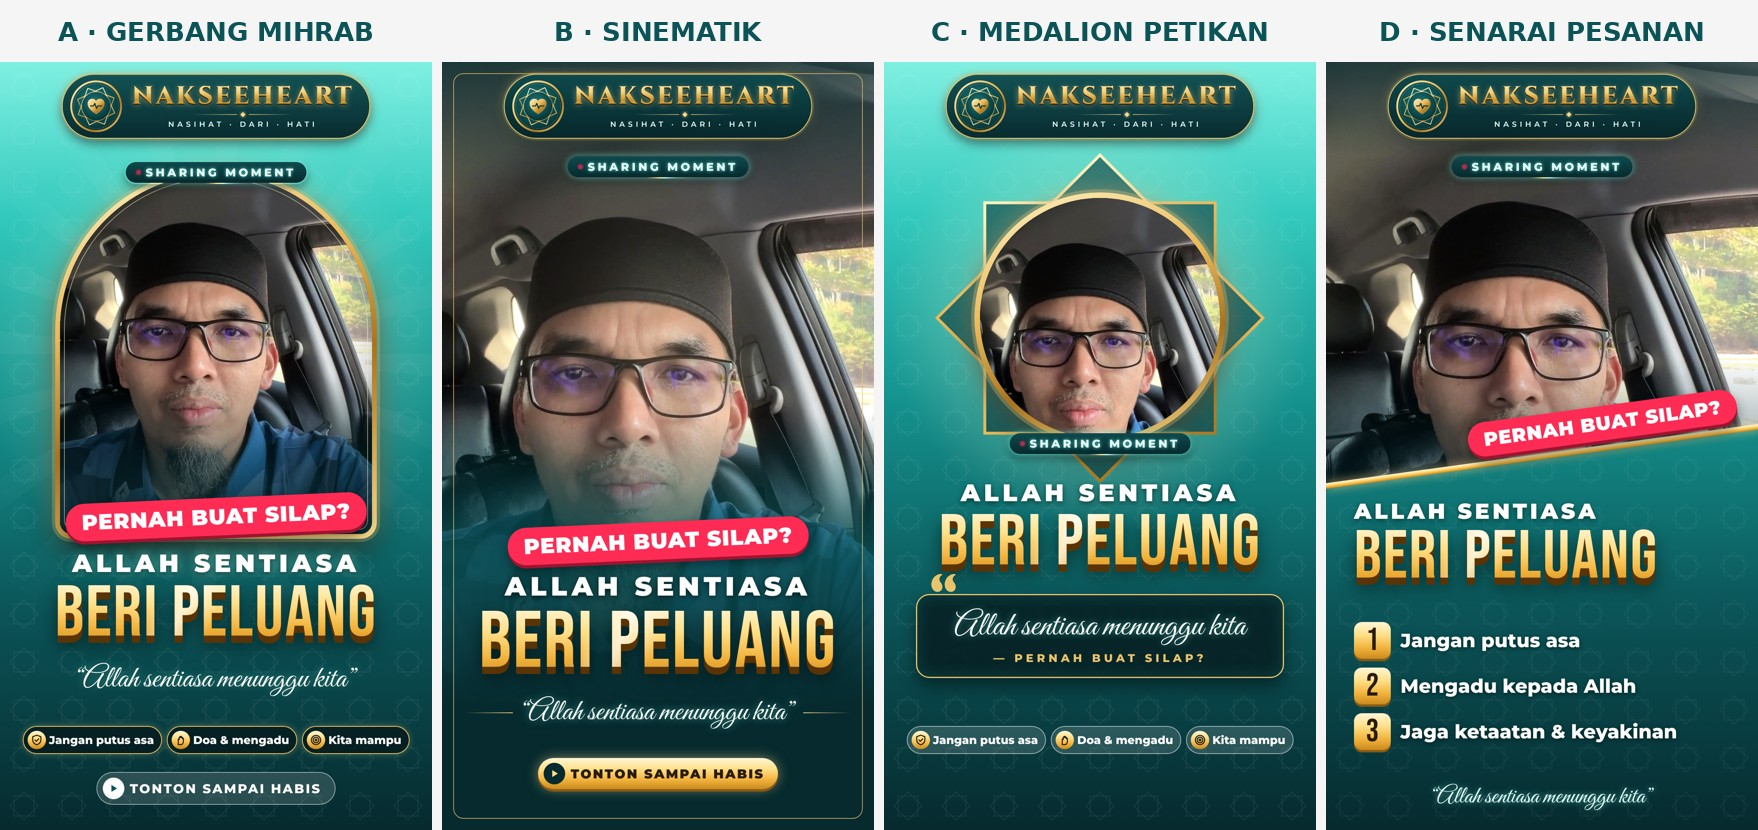
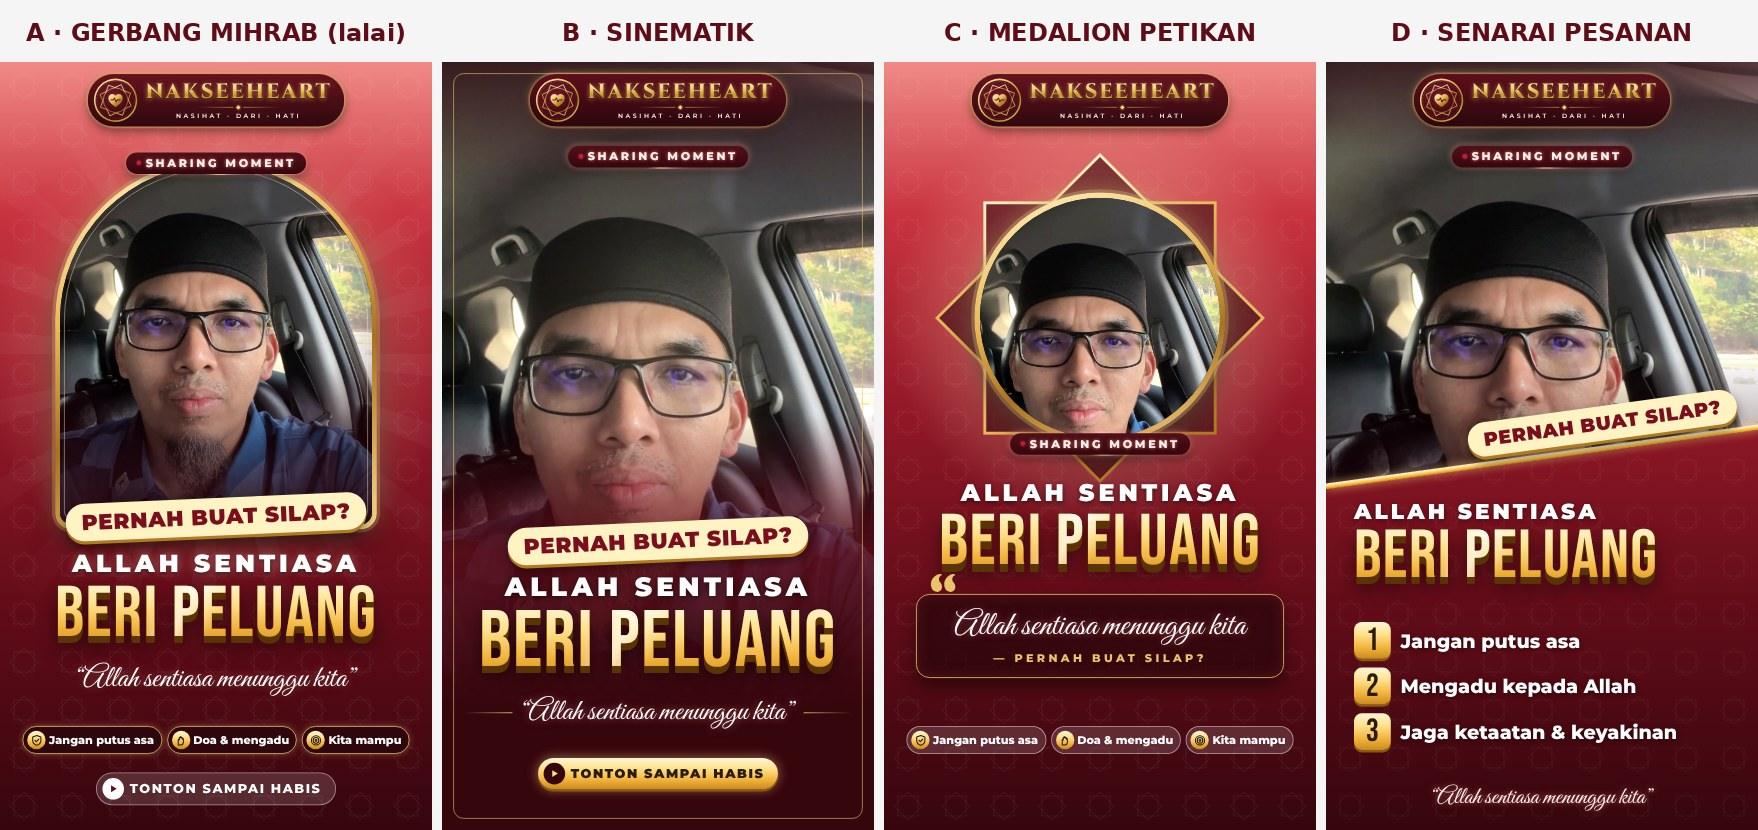
Nasihat V4: contoh dikemas kini ke maroon, pembetulan jenis cover.list untuk projek baharu, README
Claude-Session: https://claude.ai/code/session_012bACtUvdqMXn5RVzcwWnfk

diff --git a/styles/nasihat-v4/overlay/src/Showcase.tsx b/styles/nasihat-v4/overlay/src/Showcase.tsx
@@ -661,7 +661,7 @@ export const CoverV4C: React.FC = () => {
 /** D — SENARAI PESANAN: foto atas bersudut condong + 3 pesanan bernombor */
 export const CoverV4D: React.FC = () => {
   const cv = SC.cover;
-  const list: string[] = cv.list ?? cv.chips.map((c: { t: string }) => c.t);
+  const list: string[] = (cv as { list?: string[] }).list ?? cv.chips.map((c: { t: string }) => c.t);
   return (
     <AbsoluteFill style={{ overflow: 'hidden', background: TURQ }}>
       <Star8BG o={0.08} />

diff --git a/video-nakseeheart-allah-beri-peluang/src/Showcase.tsx b/video-nakseeheart-allah-beri-peluang/src/Showcase.tsx
@@ -661,7 +661,7 @@ export const CoverV4C: React.FC = () => {
 /** D — SENARAI PESANAN: foto atas bersudut condong + 3 pesanan bernombor */
 export const CoverV4D: React.FC = () => {
   const cv = SC.cover;
-  const list: string[] = cv.list ?? cv.chips.map((c: { t: string }) => c.t);
+  const list: string[] = (cv as { list?: string[] }).list ?? cv.chips.map((c: { t: string }) => c.t);
   return (
     <AbsoluteFill style={{ overflow: 'hidden', background: TURQ }}>
       <Star8BG o={0.08} />

diff --git a/video-nakseeheart-allah-beri-peluang/README.md b/video-nakseeheart-allah-beri-peluang/README.md
@@ -33,3 +33,9 @@ Warna dinormalkan (kulit wajah). Suara dibersihkan, muzik disintesis (ducking -1
 
 ## Versi Showcase FINAL/RAW (kinetic typography)
 [`out/nakseeheart-allah-beri-peluang-showcase.mp4`](out/nakseeheart-allah-beri-peluang-showcase.mp4) (106.3 s, 9:16): format showcase mengikut video rujukan pengguna — logo & nama di atas, panel **FINAL** (suntingan semula segi empat: wajah penceramah diselang-seli 18 kad *kinetic typography* — perkataan besar, kad pilihan, cincin, siluet, jubin 1-2-3, sorotan) dan panel **RAW** (rakaman asal, serentak mengikut EDL yang sama), label neon *SHARING MOMENT*, tona turquoise + emas. Kod: `src/Showcase.tsx` (komposisi `Showcase`, `KineticFinal`). Ucapan & audio sama seperti versi asal.
+
+## Versi Nasihat V4 (showcase)
+Video contoh rasmi style **Nasihat V4** (`styles/nasihat-v4/`): tema merah maroon, logo premium, satu panel
+kinetic, point 3D, CTA Follow TikTok dengan klik, cover Konsep A (gerbang mihrab) dibenam.
+- Output: `out/nakseeheart-allah-beri-peluang-showcase.mp4` (107 s, cover di dalam), cover `out/nakseeheart-allah-beri-peluang-showcase-cover.jpg`
+- Data: `src/data/showcase.json` · komposisi `Showcase`, `CoverV4` (+ `CoverV4B/C/D`), `KineticFinal`
